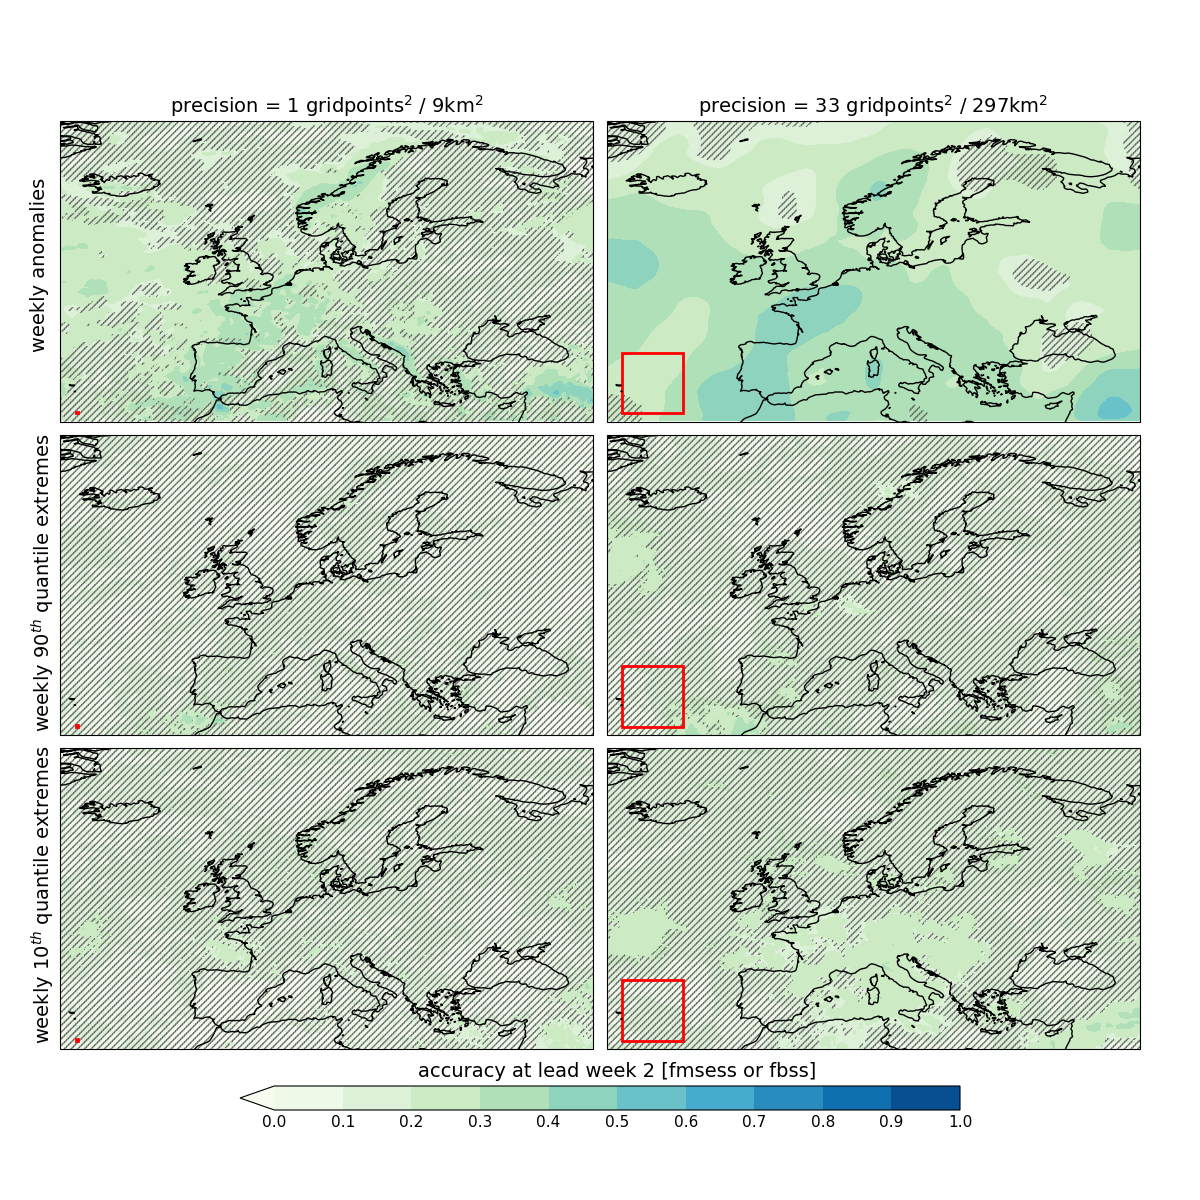
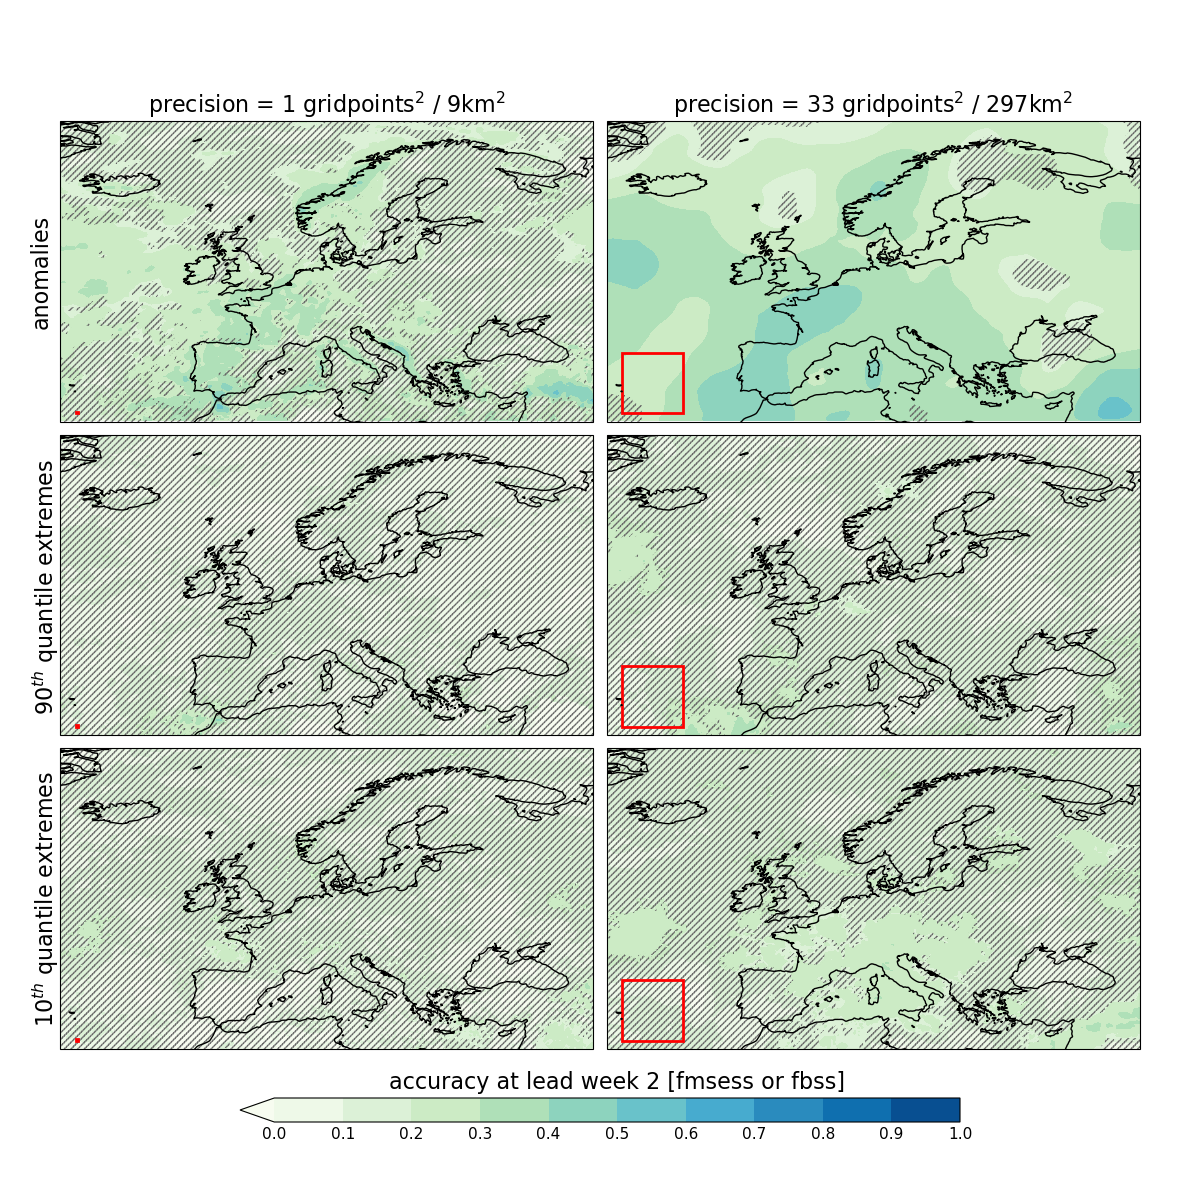
update

diff --git a/code/preprocess/era5/calc-daily-s2s-forecast-format.py b/code/preprocess/era5/calc-daily-s2s-forecast-format.py
@@ -16,16 +16,17 @@ import os
 from forsikring import config,misc,s2s
 
 # INPUT -----------------------------------------------
-variables           = ['t2m24']             # tp24,rn24,mx24rn6,mx24tp6,mx24tpr
-first_forecast_date = '20210104'           # first initialization date of forecast (either a monday or thursday)
-number_forecasts    = 104                    # number of forecasts   
+variables           = ['tp24']             # tp24,rn24,mx24rn6,mx24tp6,mx24tpr
+first_forecast_date = '20230806'           # first initialization date of forecast (either a monday or thursday)
+number_forecasts    = 1                    # number of forecasts   
 season              = 'annual'
 grids               = ['0.25x0.25']        # '0.25x0.25' or '0.5x0.5'
-write2file          = True
+write2file          = False
 # -----------------------------------------------------         
 
 # get all dates for monday and thursday forecast initializations 
 forecast_dates = s2s.get_forecast_dates(first_forecast_date,number_forecasts,season)
+#forecast_dates = pd.date_range(first_forecast_date, periods=1)
 print(forecast_dates)
 
 for variable in variables:
@@ -36,7 +37,7 @@ for variable in variables:
             
             # define some paths and strings
             path_in      = config.dirs['era5_daily'] + variable + '/'
-            path_out     = config.dirs['era5_s2s_forecast_daily'] + variable + '/'
+            path_out     = config.dirs['era5_forecast_daily'] + variable + '/'
             datestring   = date.strftime('%Y-%m-%d')
             year         = date.strftime('%Y')
             filename1_in = variable + '_' + grid + '_' + year + '.nc'
@@ -49,6 +50,7 @@ for variable in variables:
 
             # calculate explicitely
             with ProgressBar(): ds = xr.open_mfdataset([path_in + filename1_in,path_in + filename2_in]).sel(time=era5_dates).compute()
+            #with ProgressBar(): ds = xr.open_mfdataset(path_in + filename1_in).sel(time=era5_dates).compute()
             
             # write to file
             if write2file:

diff --git a/code/preprocess/era5/calc-daily-smooth-s2s-forecast-format.py b/code/preprocess/era5/calc-daily-smooth-s2s-forecast-format.py
@@ -6,22 +6,24 @@ fields to file.
 
 import numpy    as np
 import xarray   as xr
+import pandas   as pd
 from forsikring import s2s, verify, misc, config
 
 # Input -----------------------------------
 variables           = ['tp24']                  # tp24,rn24,mx24rn6,mx24tp6,mx24tpr
-first_forecast_date = '20200102'               # first initialization date of forecast (either a monday or thursday)
-number_forecasts    = 313                      # number of forecasts
+first_forecast_date = '20230807'               # first initialization date of forecast (either a monday or thursday)
+number_forecasts    = 1                      # number of forecasts
 season              = 'annual'
 grids               = ['0.25x0.25']            # '0.25x0.25' & '0.5x0.5'
 box_sizes           = np.arange(1,61,2)        # smoothing box size in grid points per side. Must be odd! 
-write2file          = True
+write2file          = False
 # -----------------------------------------
 
 misc.tic()
 
 # define stuff 
 forecast_dates = s2s.get_forecast_dates(first_forecast_date,number_forecasts,season).strftime('%Y-%m-%d').values
+#forecast_dates = pd.date_range(first_forecast_date, periods=1).strftime('%Y-%m-%d').values     
 print(forecast_dates)
 
 for variable in variables:
@@ -31,8 +33,8 @@ for variable in variables:
             print('\nsmoothing forecast ' + variable + ' for ' + date + ' and grid ' + grid)
 
             # define stuff
-            path_in      = config.dirs['era5_s2s_forecast_daily'] + variable + '/'
-            path_out     = config.dirs['era5_s2s_forecast_daily_smooth'] + variable + '/'
+            path_in      = config.dirs['era5_forecast_daily'] + variable + '/'
+            path_out     = config.dirs['era5_forecast_daily_smooth'] + variable + '/'
             filename_in  = variable + '_' + grid + '_' + date + '.nc'
             filename_out = variable + '_' + grid + '_' + date + '.nc'
 

diff --git a/code/plot/plot-fig-04.py b/code/plot/plot-fig-04.py
@@ -69,16 +69,16 @@ setup_subplot_xy(5, ax[4], ds5, clevs, cmap, fontsize)
 p = setup_subplot_xy(6, ax[5], ds6, clevs, cmap, fontsize)
 
 fig.subplots_adjust(right=0.95, left=0.05,top=0.975,bottom=0.05,hspace=-0.35,wspace=0.025)
-cbar_ax = fig.add_axes([0.2, 0.075, 0.6, 0.02])
+cbar_ax = fig.add_axes([0.2, 0.065, 0.6, 0.02])
 cb = fig.colorbar(p, cax=cbar_ax, orientation='horizontal',ticks=clevs, pad=0.025)
 cb.ax.tick_params(labelsize=fontsize, size=0)
-cb.ax.set_title('accuracy at lead week 2 [fmsess or fbss]', fontsize=fontsize+3,y=1.01)
+cb.ax.set_title('accuracy at lead week 2 [fmsess or fbss]', fontsize=fontsize+5,y=1.01)
 
-ax[0].set_title('precision = 1 gridpoints$^{2}$ / 9km$^{2}$',fontsize=fontsize+3)
-ax[1].set_title('precision = 33 gridpoints$^{2}$ / 297km$^{2}$',fontsize=fontsize+3)
-fig.text(0.025,0.71,'weekly anomalies',rotation=90,fontsize=fontsize+3)
-fig.text(0.025,0.395,'weekly 90$^{th}$ quantile extremes',rotation=90,fontsize=fontsize+3)
-fig.text(0.025,0.135,'weekly 10$^{th}$ quantile extremes',rotation=90,fontsize=fontsize+3)
+ax[0].set_title('precision = 1 gridpoints$^{2}$ / 9km$^{2}$',fontsize=fontsize+5)
+ax[1].set_title('precision = 33 gridpoints$^{2}$ / 297km$^{2}$',fontsize=fontsize+5)
+fig.text(0.025,0.73,'anomalies',rotation=90,fontsize=fontsize+5)
+fig.text(0.025,0.41,'90$^{th}$ quantile extremes',rotation=90,fontsize=fontsize+5)
+fig.text(0.025,0.15,'10$^{th}$ quantile extremes',rotation=90,fontsize=fontsize+5)
 
 # write2file
 if write2file: plt.savefig(path_out + figname_out)

diff --git a/code/plot/plot-fig-03.py b/code/plot/plot-fig-03.py
@@ -69,16 +69,16 @@ setup_subplot_xy(5, ax[4], ds5, clevs, cmap, fontsize)
 p = setup_subplot_xy(6, ax[5], ds6, clevs, cmap, fontsize)
 
 fig.subplots_adjust(right=0.95, left=0.05,top=0.975,bottom=0.05,hspace=-0.35,wspace=0.025)
-cbar_ax = fig.add_axes([0.2, 0.075, 0.6, 0.02])
+cbar_ax = fig.add_axes([0.2, 0.065, 0.6, 0.02])
 cb = fig.colorbar(p, cax=cbar_ax, orientation='horizontal',ticks=clevs, pad=0.025)
 cb.ax.tick_params(labelsize=fontsize, size=0)
-cb.ax.set_title('accuracy at lead day 5 [fmsess or fbss]', fontsize=fontsize+3,y=1.01)
+cb.ax.set_title('accuracy at lead day 5 [fmsess or fbss]', fontsize=fontsize+5,y=1.01)
 
-ax[0].set_title('precision = 1 gridpoints$^{2}$ / 9km$^{2}$',fontsize=fontsize+3)
-ax[1].set_title('precision = 33 gridpoints$^{2}$ / 297km$^{2}$',fontsize=fontsize+3)
-fig.text(0.025,0.71,'daily anomalies',rotation=90,fontsize=fontsize+3)
-fig.text(0.025,0.405,'daily 90$^{th}$ quantile extremes',rotation=90,fontsize=fontsize+3)
-fig.text(0.025,0.145,'daily 10$^{th}$ quantile extremes',rotation=90,fontsize=fontsize+3)
+ax[0].set_title('precision = 1 gridpoints$^{2}$ / 9km$^{2}$',fontsize=fontsize+5)
+ax[1].set_title('precision = 33 gridpoints$^{2}$ / 297km$^{2}$',fontsize=fontsize+5)
+fig.text(0.025,0.73,'anomalies',rotation=90,fontsize=fontsize+5)
+fig.text(0.025,0.41,'90$^{th}$ quantile extremes',rotation=90,fontsize=fontsize+5)
+fig.text(0.025,0.15,'10$^{th}$ quantile extremes',rotation=90,fontsize=fontsize+5)
 
 # write2file
 if write2file: plt.savefig(path_out + figname_out)

diff --git a/code/download/download-era5-sfc-accumulated-6hourly.py b/code/download/download-era5-sfc-accumulated-6hourly.py
@@ -14,16 +14,16 @@ from dask.diagnostics import ProgressBar
 import cdsapi
 import pandas as pd
 import os
-from forsikring import config,s2s
+from forsikring import config,s2s,misc
 
 # INPUT -----------------------------------------------
 area       = '73.5/-27/33/45' # or 'E' for europe
 grid       = '0.25/0.25' # '0.25/0.25' or '0.5/0.5'
 variables  = ['tp6'] # tp6,sf6
-date_start = '2023-10-31'
-date_end   = '2024-01-01'
+date_start = '2023-01-01'
+date_end   = '2023-11-29'
 comp_lev   = 5 # file compression level
-write2file = True
+write2file = False
 # -----------------------------------------------------
 
 c         = cdsapi.Client()
@@ -104,7 +104,7 @@ for variable in variables:
                 ds.to_netcdf(path + filename3)
                 os.system('rm ' + path + filename1 + ' ' + path + filename2)
                 ds.close()
-
+                
                 if (dates[i+1].year - dates[i].year == 1) or (dates[i+1].strftime('%Y-%m-%d') == date_end): # if new year or end of dates
 
                         print('')
@@ -121,7 +121,7 @@ for variable in variables:
 
                         print('compress files to reduce space..')
                         print('')
-                        s2s.compress_file(comp_lev,3,filename_out,path)
-
+                        misc.compress_file(comp_lev,3,filename_out,path)
+                        
 
 

diff --git a/code/preprocess/s2s/calc-daily-from-6hourly.py b/code/preprocess/s2s/calc-daily-from-6hourly.py
@@ -12,16 +12,17 @@ from matplotlib  import pyplot as plt
 
 # INPUT ----------------------------------------------- 
 variables           = ['tp24']                # tp24, rn24, mx24tp6, mx24rn6, mx24tpr
-product             = 'hindcast'              # hindcast or forecast ?
-first_forecast_date = '20200102' # first initialization date of forecast (either a monday or thursday)
-number_forecasts    = 313        # number of forecast initializations  
+product             = 'forecast'              # hindcast or forecast ?
+first_forecast_date = '20230807' # first initialization date of forecast (either a monday or thursday)
+number_forecasts    = 1        # number of forecast initializations  
 season              = 'annual'
 grid                = '0.25x0.25'             # '0.25x0.25' or '0.5x0.5'
-write2file          = True
+write2file          = False
 # -----------------------------------------------------            
 
 # get all dates for monday and thursday forecast initializations
 forecast_dates = s2s.get_forecast_dates(first_forecast_date,number_forecasts,season).strftime('%Y-%m-%d')
+#forecast_dates = pd.date_range(first_forecast_date, periods=1).strftime('%Y-%m-%d')
 print(forecast_dates)
 
 for variable in variables:

diff --git a/code/download/download-s2s-ecmwf-6hourly-hindcast.py b/code/download/download-s2s-ecmwf-6hourly-hindcast.py
@@ -25,11 +25,11 @@ from datetime                    import datetime
 from forsikring                  import config,misc,s2s
 
 # input -----------------------------------
-product             = 'vr_hindcast' # hindcast/vr_hindcast
-first_forecast_date = '20200702' # first initialization date of forecast (either a monday or thursday)
-number_forecast     = 53          # number of forecast initializations      
+product             = 'hindcast' # hindcast/vr_hindcast
+first_forecast_date = '20220704' # first initialization date of forecast (either a monday or thursday)
+number_forecast     = 52          # number of forecast initializations      
 nhdates             = 20 # number of hindcast years  
-grid                = '0.5/0.5' # degree lat/lon resolution
+grid                = '0.25/0.25' # degree lat/lon resolution
 area                = '73.5/-27/33/45'# ecmwf european lat-lon bounds [73.5/-27/33/45]
 var                 = 'tp'
 comp_lev            = 5 # file compression level

diff --git a/code/preprocess/s2s/calc-6hourly-accumulated-variables.py b/code/preprocess/s2s/calc-6hourly-accumulated-variables.py
@@ -19,9 +19,9 @@ variables           = ['tp']
 dtypes              = ['cf','pf']             # control & perturbed forecasts/hindcasts
 product             = 'hindcast'              # hindcast or forecast
 first_forecast_date = '20200102' # first initialization date of forecast (either a monday or thursday) 
-number_forecasts    = 313        # number of forecast initializations 
+number_forecasts    = 105        # number of forecast initializations 
 season              = 'annual'
-grid                = '0.25x0.25'             # '0.25x0.25' or '0.5x0.5'
+grid                = '0.5x0.5'             # '0.25x0.25' or '0.5x0.5'
 comp_lev            = 5                       # level of compression with nccopy (1-10)
 write2file          = True
 # -----------------------------------------------------            

diff --git a/code/preprocess/era5/calc-daily-continuous-from-6hourly.py b/code/preprocess/era5/calc-daily-continuous-from-6hourly.py
@@ -10,7 +10,7 @@ from forsikring import config,misc,s2s
 
 # INPUT ----------------------------------------------- 
 variables  = ['tp24'] # tp24,rn24,mx24rn6,mx24tp6,mx24tpr
-years      = np.arange(1960,1961,1)
+years      = np.arange(2023,2024,1)
 grid       = '0.25x0.25' # '0.25x0.25' or '0.5x0.5'
 comp_lev   = 5
 write2file = False
